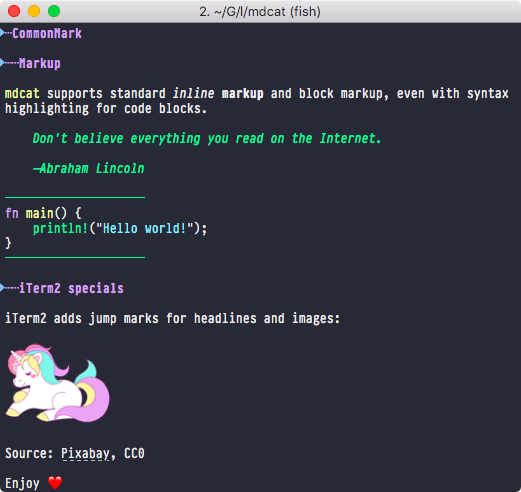
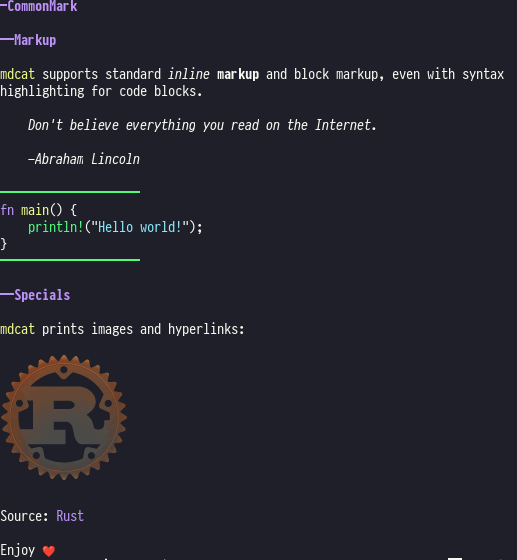
Create new screenshot
Closes GH-145

diff --git a/README.md b/README.md
@@ -8,13 +8,13 @@ $ mdcat sample.md
 
 ![mdcat showcase with different colour themes][sxs]
 
-mdcat in [iTerm2], with [Dracula], and [Solarized] Light and Dark (from left to
+mdcat in [kitty], with Tango Light, [Dracula], and [Solarized] Light (from left to
 right), and [PragmataPro] as font.
 
 [CommonMark]: http://commonmark.org
 [Solarized]: http://ethanschoonover.com/solarized
 [dracula]: https://draculatheme.com/iterm/
-[iterm2]: https://www.iterm2.com
+[kitty]: https://sw.kovidgoyal.net/kitty/index.html
 [PragmataPro]: https://www.fsd.it/shop/fonts/pragmatapro/
 [sxs]: ./screenshots/side-by-side.png
 
@@ -50,7 +50,7 @@ Not supported:
 [osc8]: https://gist.github.com/egmontkob/eb114294efbcd5adb1944c9f3cb5feda
 [Terminology]: http://terminolo.gy
 [ConEmu]: https://conemu.github.io
-[kitty]: https://sw.kovidgoyal.net/kitty/index.html
+[iterm2]: https://www.iterm2.com
 
 ## Usage
 

diff --git a/sample/showcase.md b/sample/showcase.md
@@ -15,12 +15,12 @@ fn main() {
 }
 ```
 
-## iTerm2 specials
+## Specials
 
-iTerm2 adds jump marks for headlines and images:
+`mdcat` prints images and hyperlinks:
 
-![A unicorn](./unicorn.png)
+![Rust](./rust-logo-128x128.png)
 
-Source: [Pixabay](https://pixabay.com/de/einhorn-regenbogen-magische-magie-2087450/), CC0
+Source: [Rust](https://www.rust-lang.org/)
 
 Enjoy ❤
